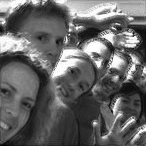
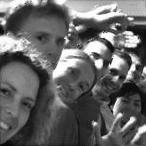
Preserve original colors on the mesh

diff --git a/main.go b/main.go
@@ -44,7 +44,7 @@ func main() {
 	}
 
 	var levels, width, height int
-	imgs := make(map[int][]uint8)
+	imgs := make(map[int][]color.Color)
 
 	// loop throug dir
 	files, err := ioutil.ReadDir(args[0])
@@ -82,10 +82,10 @@ func main() {
 		width, height = w, h
 
 		// read image data
-		imgs[level] = make([]uint8, w*h)
+		imgs[level] = make([]color.Color, w*h)
 		for c := 0; c < w; c++ {
 			for r := 0; r < h; r++ {
-				imgs[level][c*h+r] = color.GrayModel.Convert(im.At(c, r)).(color.Gray).Y
+				imgs[level][c*h+r] = im.At(c, r)
 			}
 		}
 
@@ -94,7 +94,7 @@ func main() {
 	// process
 	fmt.Printf("processing %d images [%dx%d]: ", levels, width, height)
 	im_heights := image.NewGray(image.Rect(0, 0, width, height))
-	im_mesh := image.NewGray(image.Rect(0, 0, width, height))
+	im_mesh := image.NewRGBA(image.Rect(0, 0, width, height))
 	for c := 0; c < width; c++ {
 		for r := 0; r < height; r++ {
 			var max float64
@@ -107,7 +107,7 @@ func main() {
 				}
 			}
 			im_heights.Set(c, r, color.Gray{uint8(max_l)})
-			im_mesh.Set(c, r, color.Gray{imgs[max_l][c*height+r]})
+			im_mesh.Set(c, r, imgs[max_l][c*height+r])
 		}
 		if c%10 == 0 {
 			fmt.Printf(".")
@@ -116,19 +116,19 @@ func main() {
 	fmt.Printf(" DONE\n")
 
 	// save heights
-	heights, err := os.Create(filepath.Join(args[0], "heights.png"))
+	heights, err := os.Create(filepath.Join(args[0], fmt.Sprintf("heights-%d.png", *area)))
 	defer heights.Close()
 	png.Encode(heights, im_heights)
 	fmt.Printf("save %s\n", heights.Name())
 
 	// save mesh
-	mesh, err := os.Create(filepath.Join(args[0], "mesh.png"))
+	mesh, err := os.Create(filepath.Join(args[0], fmt.Sprintf("mesh-%d.png", *area)))
 	defer mesh.Close()
 	png.Encode(mesh, im_mesh)
 	fmt.Printf("save %s\n", mesh.Name())
 }
 
-func disp(img []uint8, col, row, width, height int) float64 {
+func disp(img []color.Color, col, row, width, height int) float64 {
 	var (
 		n     int
 		x, x2 float64
@@ -139,10 +139,11 @@ func disp(img []uint8, col, row, width, height int) float64 {
 				// continue
 			} else {
 				n += 1
-				x += float64(img[c*height+r])
-				x2 += float64(img[c*height+r]) * float64(img[c*height+r])
+				gray := float64(color.GrayModel.Convert(img[c*height+r]).(color.Gray).Y)
+				x += gray
+				x2 += gray*gray
 			}
 		}
 	}
-	return x2/float64(n) - (x/float64(n))*(x/float64(n))
+	return float64(n)*x2/(x*x) - 1
 }
